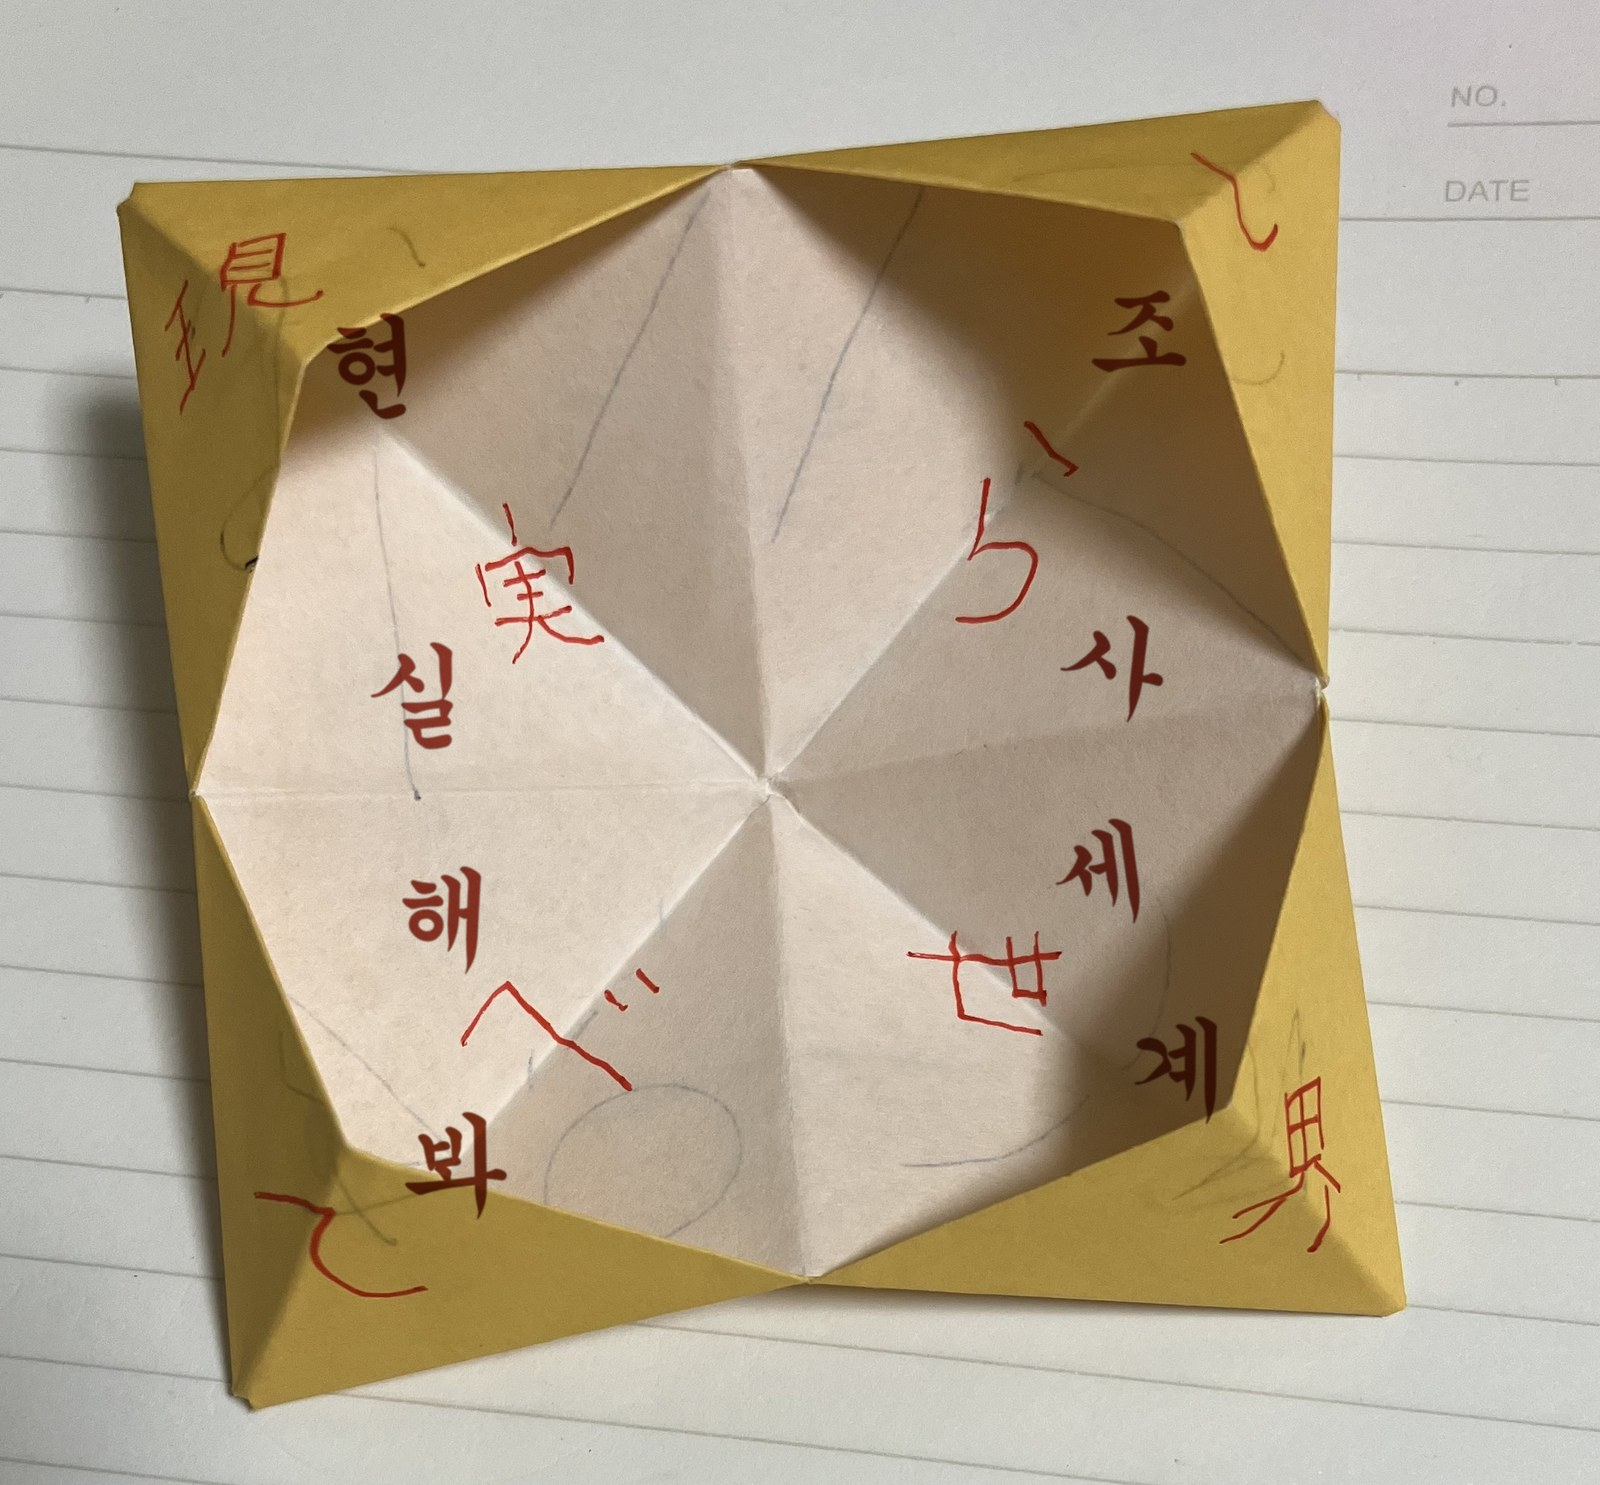
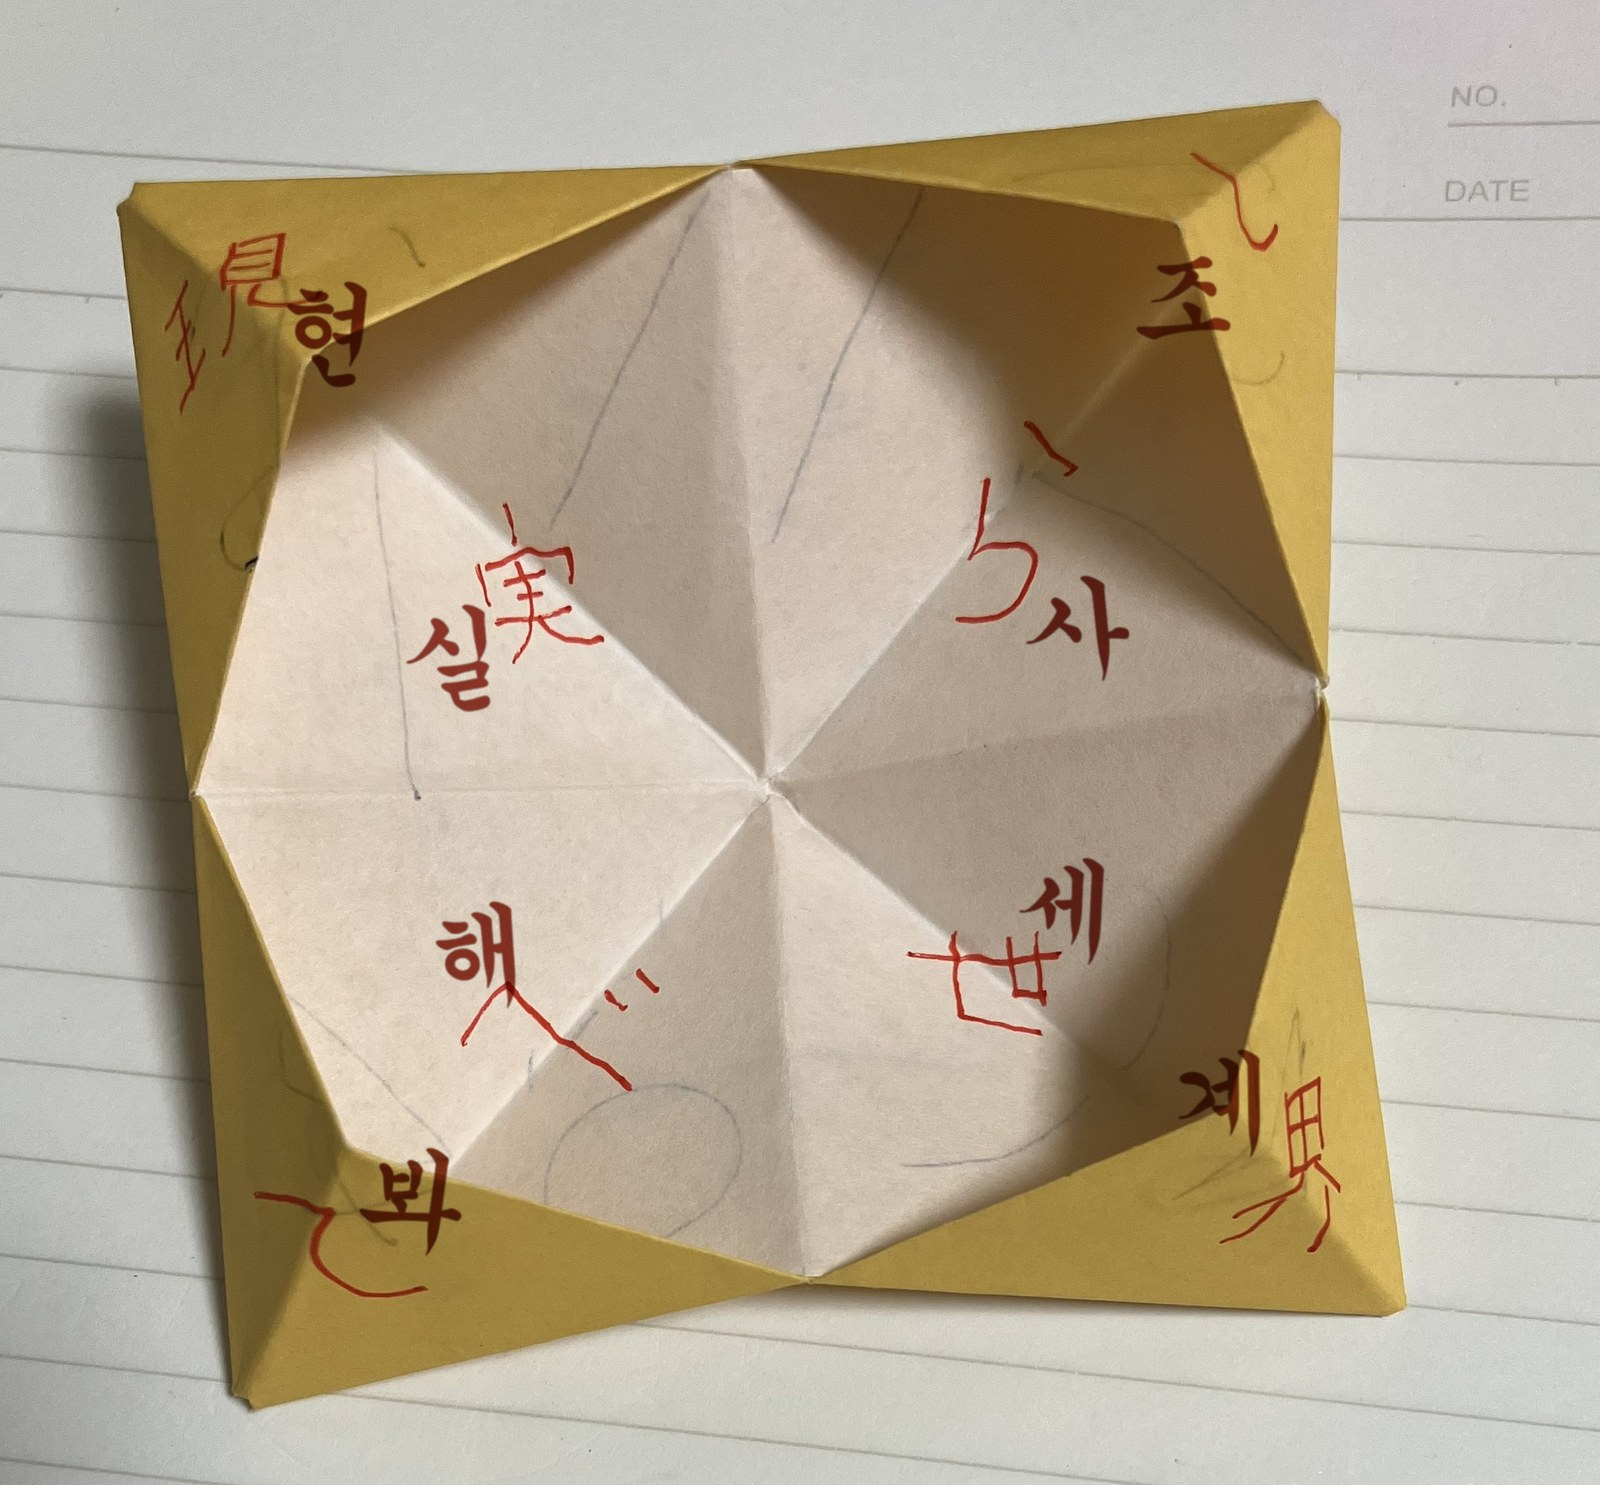
덧적은 한글의 간격을 좁히고 기울기를 원문에 맞춤
원문 옆에 한글을 적되 간격이 넓어 따로 노는 느낌이 있었다. 약 60% 좁혀
원문과 한 쌍으로 읽히게 했다.

기울기는 펼친 노란 종이의 세 글자에만 넣었다. 원문이 돌아가 있는 자리인데,
처음에 90도/180도로 맞췄더니 오히려 나빠졌다. 한자는 90도 돌아도 네모난
덩어리로 보이지만 한글 음절은 뒤집힌 글자로 읽힌다. 원문 기울기를 다시 재어
45도 안쪽으로 넣었다.

접은 사진은 여덟 자 모두 세웠다. 원작자가 평평한 상태에서 미리 돌려 써
두어 접힌 상태에서는 전부 바로 읽히기 때문이다.

diff --git a/tools/handwrite_original.py b/tools/handwrite_original.py
@@ -18,16 +18,16 @@ FONT, FONT_IDX = "C:/Windows/Fonts/batang.ttc", 2      # 궁서 — 붓 느낌
 #   방향은 원래 글자를 가리지 않는 쪽. (dx, dy) 는 칸 크기 대비 비율.
 JOBS = [
     ("image1 (1).jpeg", (92, 140, 2644, 2520), {
-        (1, 1): ("실", -0.30,  0.26), (1, 2): ("사",  0.30,  0.26),
-        (2, 1): ("해", -0.30, -0.26), (2, 2): ("세",  0.30, -0.26)}),
+        (1, 1): ("실", -0.19,  0.17, 0), (1, 2): ("사",  0.19,  0.17, 0),
+        (2, 1): ("해", -0.19, -0.17, 0), (2, 2): ("세",  0.19, -0.17, 0)}),
     ("image2.jpeg", (172, 172, 2672, 2628), {
-        (0, 0): ("봐",  0.30,  0.26), (0, 3): ("현", -0.30,  0.26),
-        (3, 0): ("계",  0.30, -0.26), (3, 3): ("조", -0.30, -0.26)}),
+        (0, 0): ("봐",  0.19,  0.17,  0), (0, 3): ("현", -0.19,  0.17, 45),
+        (3, 0): ("계",  0.19, -0.17, 45), (3, 3): ("조", -0.19, -0.17, 30)}),
     ("image0 (1).jpeg", (0, 0, 2424, 2248), {
-        (0, 0): ("현",  0.30,  0.26), (0, 3): ("조", -0.30,  0.26),
-        (3, 0): ("봐",  0.30, -0.26), (3, 3): ("계", -0.30, -0.26),
-        (1, 1): ("실", -0.28,  0.28), (1, 2): ("사",  0.28,  0.28),
-        (2, 1): ("해", -0.28, -0.28), (2, 2): ("세",  0.28, -0.28)}),
+        (0, 0): ("현",  0.19,  0.17, 0), (0, 3): ("조", -0.19,  0.17, 0),
+        (3, 0): ("봐",  0.19, -0.17, 0), (3, 3): ("계", -0.19, -0.17, 0),
+        (1, 1): ("실", -0.19,  0.18, 0), (1, 2): ("사",  0.19,  0.18, 0),
+        (2, 1): ("해", -0.19, -0.18, 0), (2, 2): ("세",  0.19, -0.18, 0)}),
 ]
 
 
@@ -52,7 +52,7 @@ def run(src, dst, box, cells):
     size = int(min(cw, ch) * 0.30)
 
     layer = Image.new("RGBA", im.size, (0, 0, 0, 0))
-    for (r, c), (ko, dx, dy) in cells.items():
+    for (r, c), (ko, dx, dy, rot) in cells.items():
         cell = (int(x0 + c * cw), int(y0 + r * ch), int(x0 + (c + 1) * cw), int(y0 + (r + 1) * ch))
         cen, px = red_centroid(a, cell)
         if cen is None:
@@ -70,7 +70,7 @@ def run(src, dst, box, cells):
         bb = gd.textbbox((0, 0), ko, font=f)
         gd.text(((g.width - (bb[2] - bb[0])) / 2 - bb[0],
                  (g.height - (bb[3] - bb[1])) / 2 - bb[1]), ko, font=f, fill=ink + (238,))
-        g = g.rotate(rnd.uniform(-8, 8), resample=Image.BICUBIC)
+        g = g.rotate(rot + rnd.uniform(-8, 8), resample=Image.BICUBIC)
         g = g.filter(ImageFilter.GaussianBlur(1.1))
         layer.alpha_composite(g, (int(cen[0] + cw * dx - g.width / 2),
                                   int(cen[1] + ch * dy - g.height / 2)))
